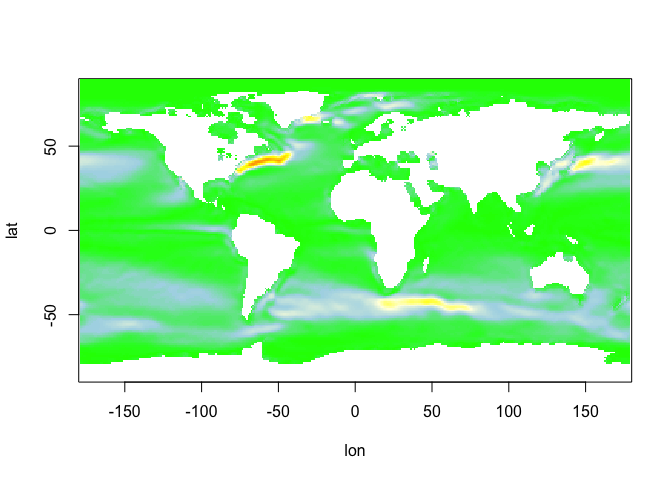
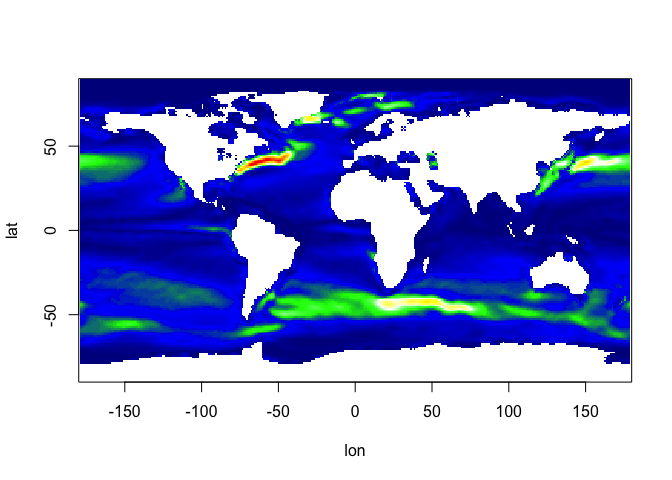
Made color gradients match Burrows et al. 2011 a wee bit more.

diff --git a/README.md b/README.md
@@ -72,19 +72,21 @@ linearChangePlot](README_files/figure-markdown_strict/linearChangePlot.png)
 
 We can look at spatial gradients in temperature
 
-    pal2 <- colorRampPalette(c("green", "lightblue", "lightyellow", "yellow", "orange"))
+    pal2 <- colorRampPalette(c("darkblue", "blue", "green", "white", "yellow", "orange", "red"))
     with(climateChangeMats, image(lon, lat, spatialGradMat, col=pal2(101)))
 
 ![plot of chunk
 gradientPlots](README_files/figure-markdown_strict/gradientPlots1.png)
 
-    levelplot(climateChangeMats$NSmat ~ lon * lat, col.regions=pal(100),
-              data = latLonGrid, at=seq(-0.015, 0.015, length.out=100))
+    palNS <- colorRampPalette(c("green", "white", "purple"))
+    levelplot(climateChangeMats$NSmat ~ lon * lat, col.regions=palNS(100),
+              data = latLonGrid, at=seq(-0.025, 0.025, length.out=100))
 
 ![plot of chunk
 gradientPlots](README_files/figure-markdown_strict/gradientPlots2.png)
 
-    levelplot(climateChangeMats$WEmat ~ lon * lat, col.regions=pal2(100),
+    palWE <- colorRampPalette(c("orange", "white", "blue"))
+    levelplot(climateChangeMats$WEmat ~ lon * lat, col.regions=palWE(100),
       data = latLonGrid, at=seq(-0.025, 0.025, length.out=100))
 
 ![plot of chunk
